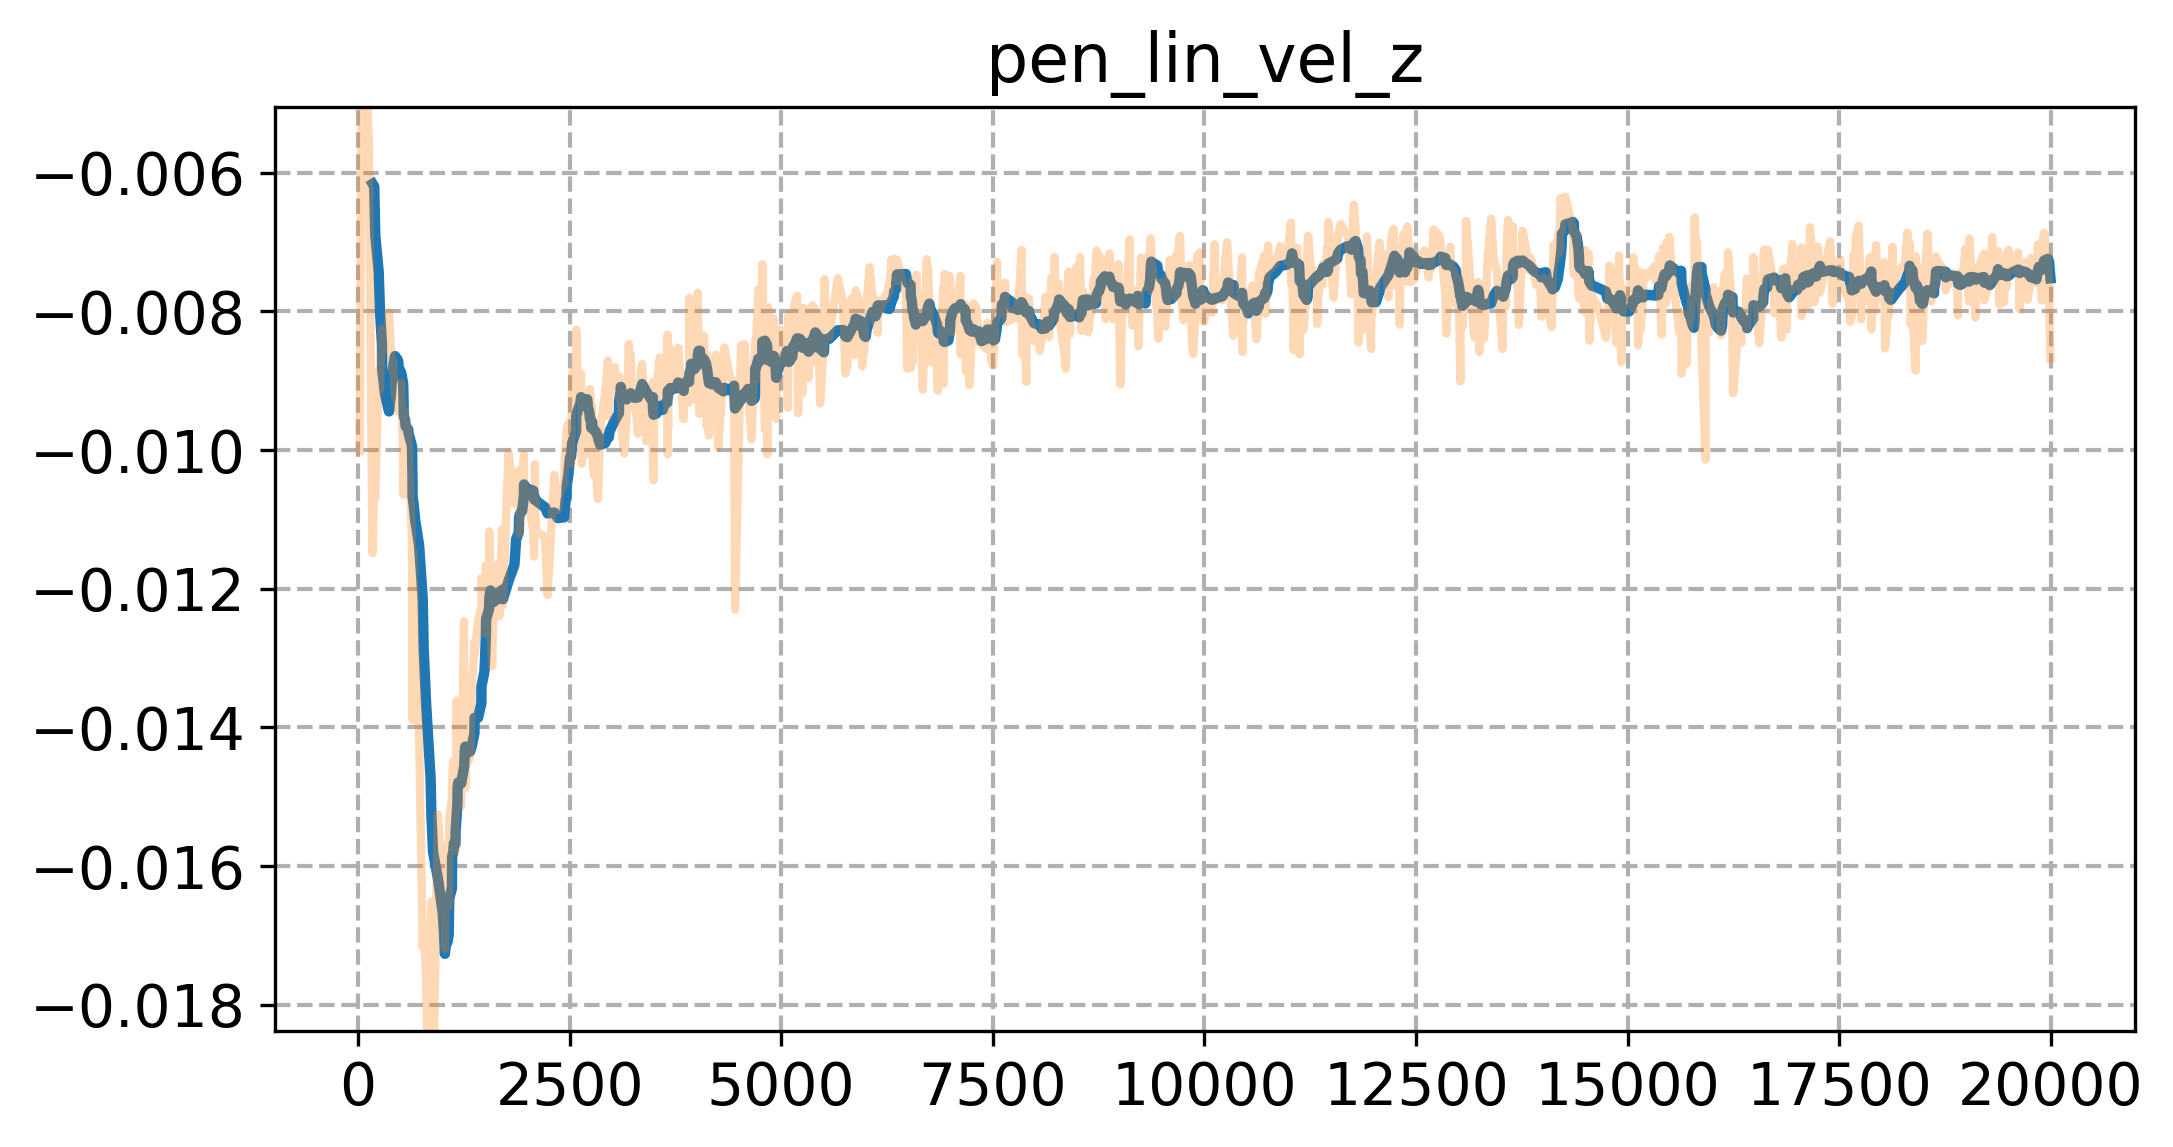
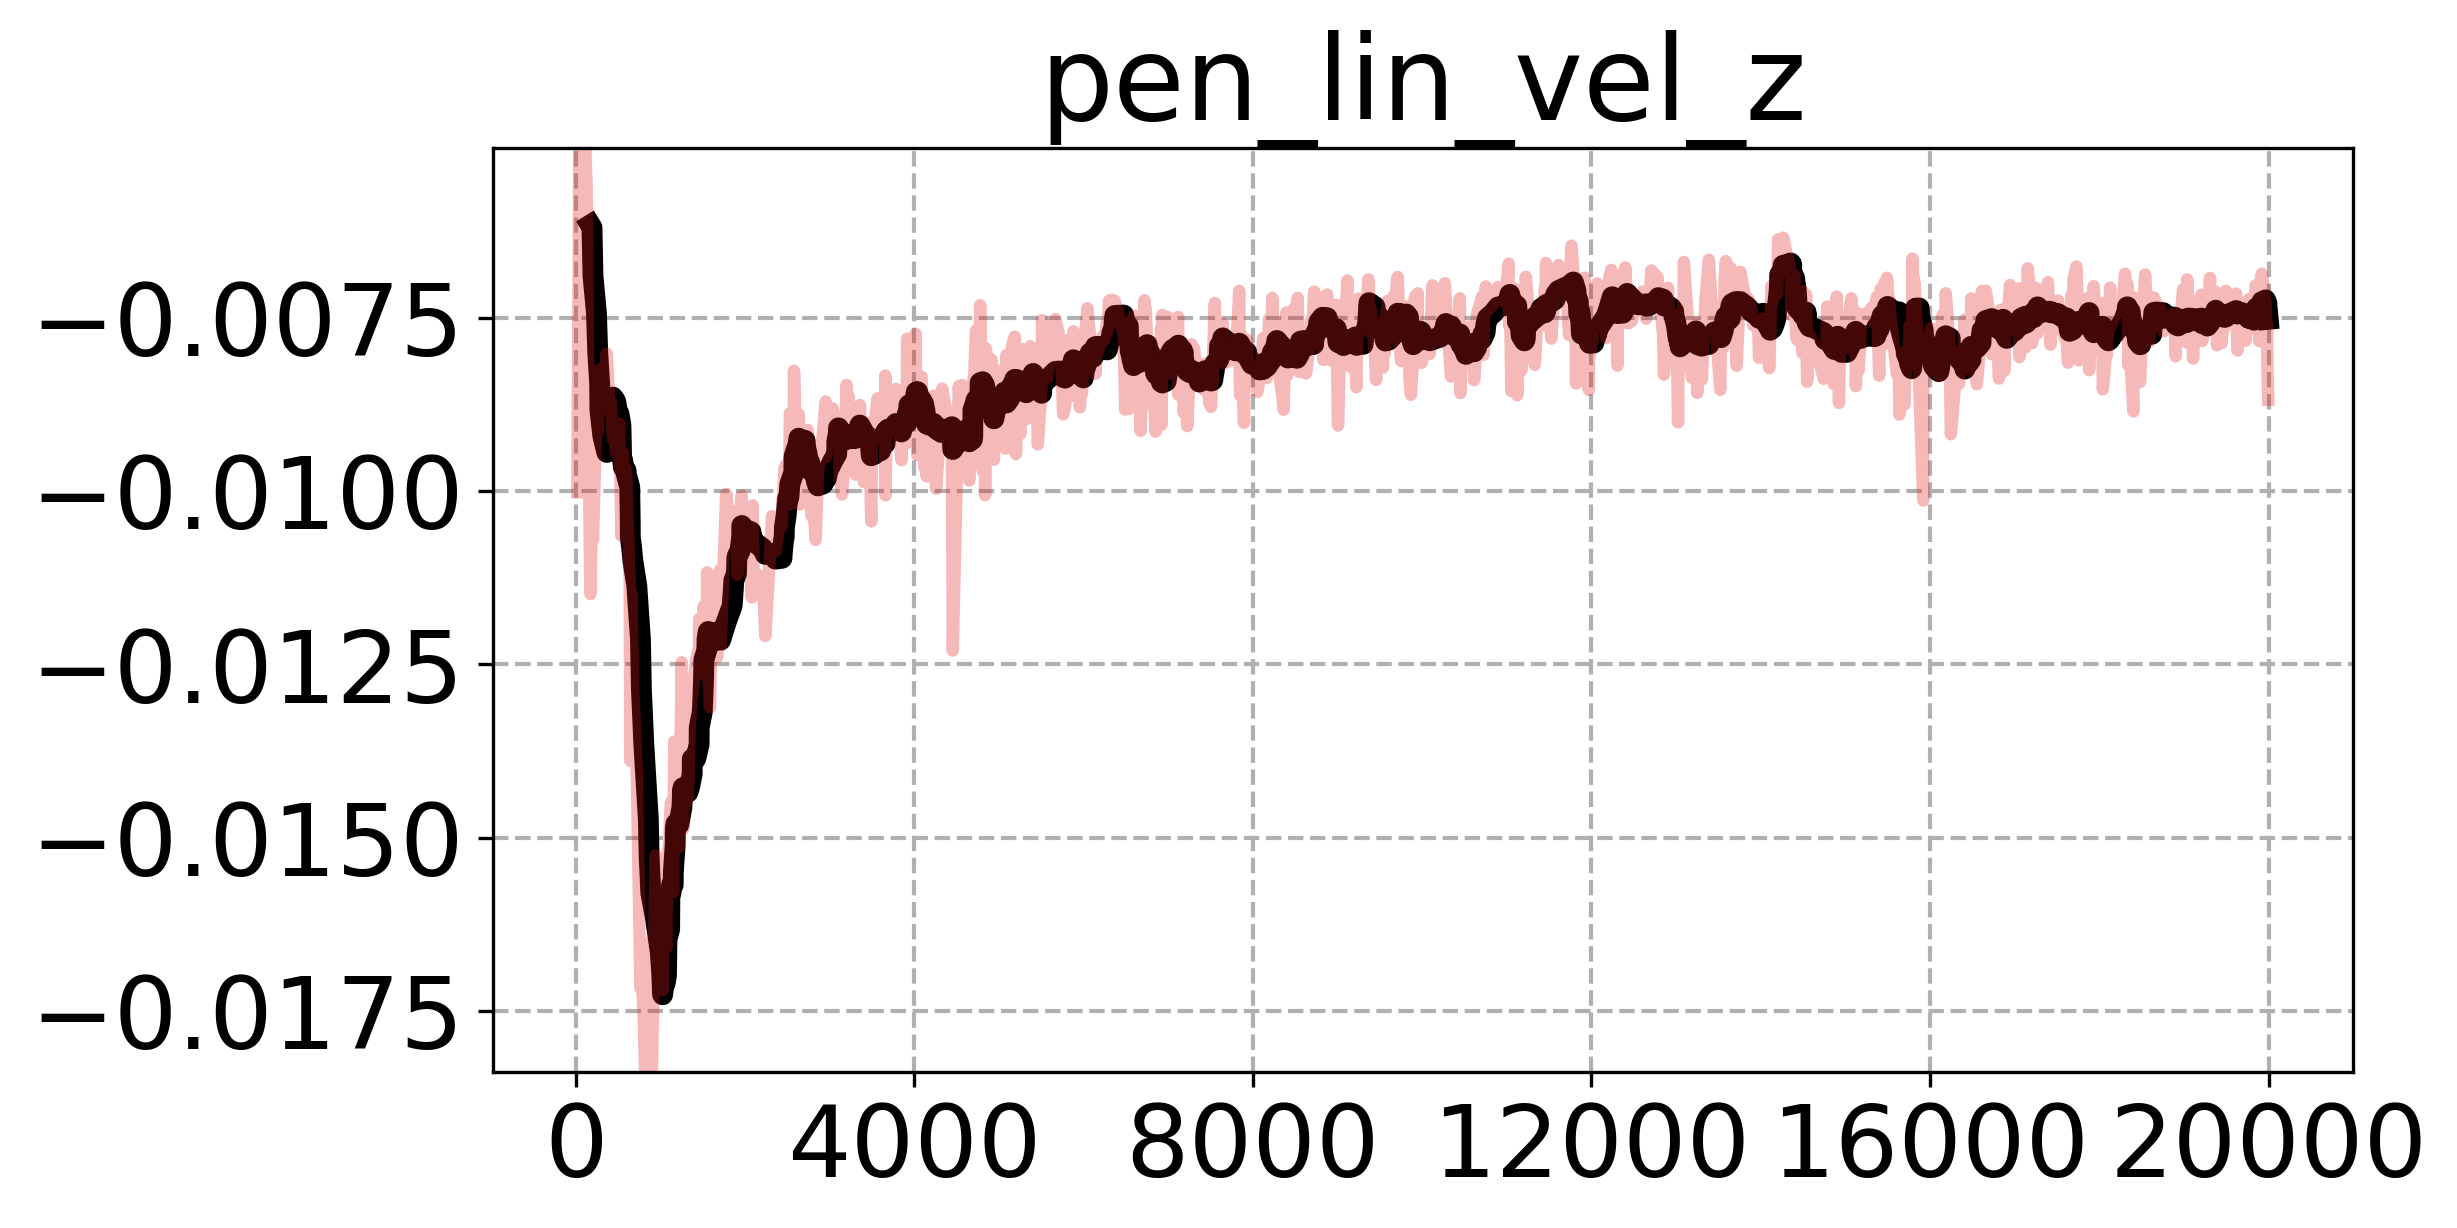
Update graphs and readme

diff --git a/paper/policy_data.py b/paper/policy_data.py
@@ -1,7 +1,8 @@
+import os
 import argparse
 import pandas as pd
 import matplotlib.pyplot as plt
-import os
+from matplotlib.ticker import MaxNLocator
 
 parser = argparse.ArgumentParser(description="Go2 environment.")
 parser.add_argument("--csv_files_path", type=str, default=None, help="Path containing csv files.")
@@ -28,14 +29,17 @@ for file in files:
     plt.clf()
     plt.close("all")
     plt.figure(figsize=(8, 4))
-    plt.title(file.split(".")[0], fontsize=16)
-    plt.xticks(fontsize=14)
-    plt.yticks(fontsize=14)
+    plt.title(file.split(".")[0], fontsize=28)
+    plt.xticks(fontsize=24)
+    plt.yticks(fontsize=24)
     plt.ylim(ylim_min, ylim_max)
-    plt.plot(df["Step"], df_avg, linewidth=2.5)
-    plt.plot(df["Step"], df["Value"], alpha=0.3, linewidth=2.0)
+    ax = plt.gca()
+    ax.xaxis.set_major_locator(MaxNLocator(nbins=6))
+    ax.yaxis.set_major_locator(MaxNLocator(nbins=6))
+    plt.plot(df["Step"], df_avg, linewidth=5.0, color="#000000")
+    plt.plot(df["Step"], df["Value"], alpha=0.3, linewidth=3.0, color="#E41A1C")
     plt.grid(True, which="both", linestyle="--", linewidth=1.0)
-
+    
     if args_cli.output_plots_path:
         save_plot_path = os.path.join(args_cli.output_plots_path, file.replace(".csv", ".png"))
         plt.savefig(save_plot_path, bbox_inches="tight", dpi=300)

diff --git a/README.md b/README.md
@@ -1,9 +1,11 @@
 # IsaacOrbit-Quadruped-RL
 
-This repository offers environments for training quadruped robots using Reinforcement Learning in Isaac Orbit.
+This repository offers environments for training quadruped robots using Reinforcement Learning in Isaac Orbit. The training framework is presented in the image below.
+
+![Training Diagram](paper/TrainingDiagram.drawio.png)
 
 ## Installation
-1. Begin by installing NVIDIA's [Isaac Sim](https://docs.omniverse.nvidia.com/isaacsim/latest/index.html) and [Isaac Orbit](https://isaac-orbit.github.io/orbit/).
+1. Begin by installing NVIDIA's [Isaac Sim](https://docs.omniverse.nvidia.com/isaacsim/latest/index.html) and [Isaac Orbit](https://isaac-sim.github.io/IsaacLab/) v0.2.
 2. This repository includes two Isaac Orbit extensions. To install them, follow these steps:
    ```bash
    $ git clone git@github.com:felipemohr/IsaacOrbit-Quadruped-RL.git
